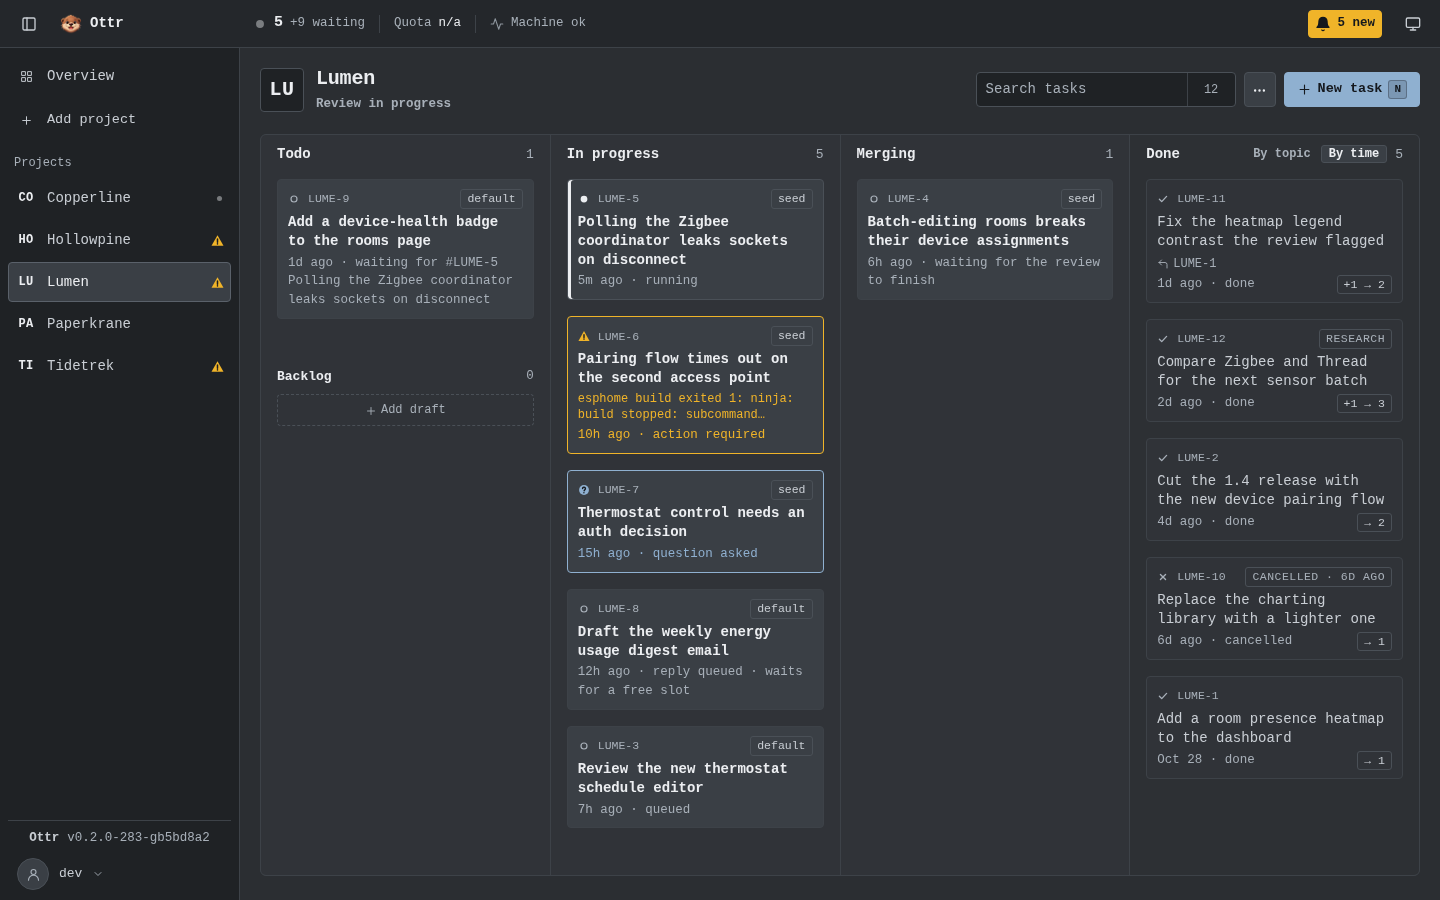
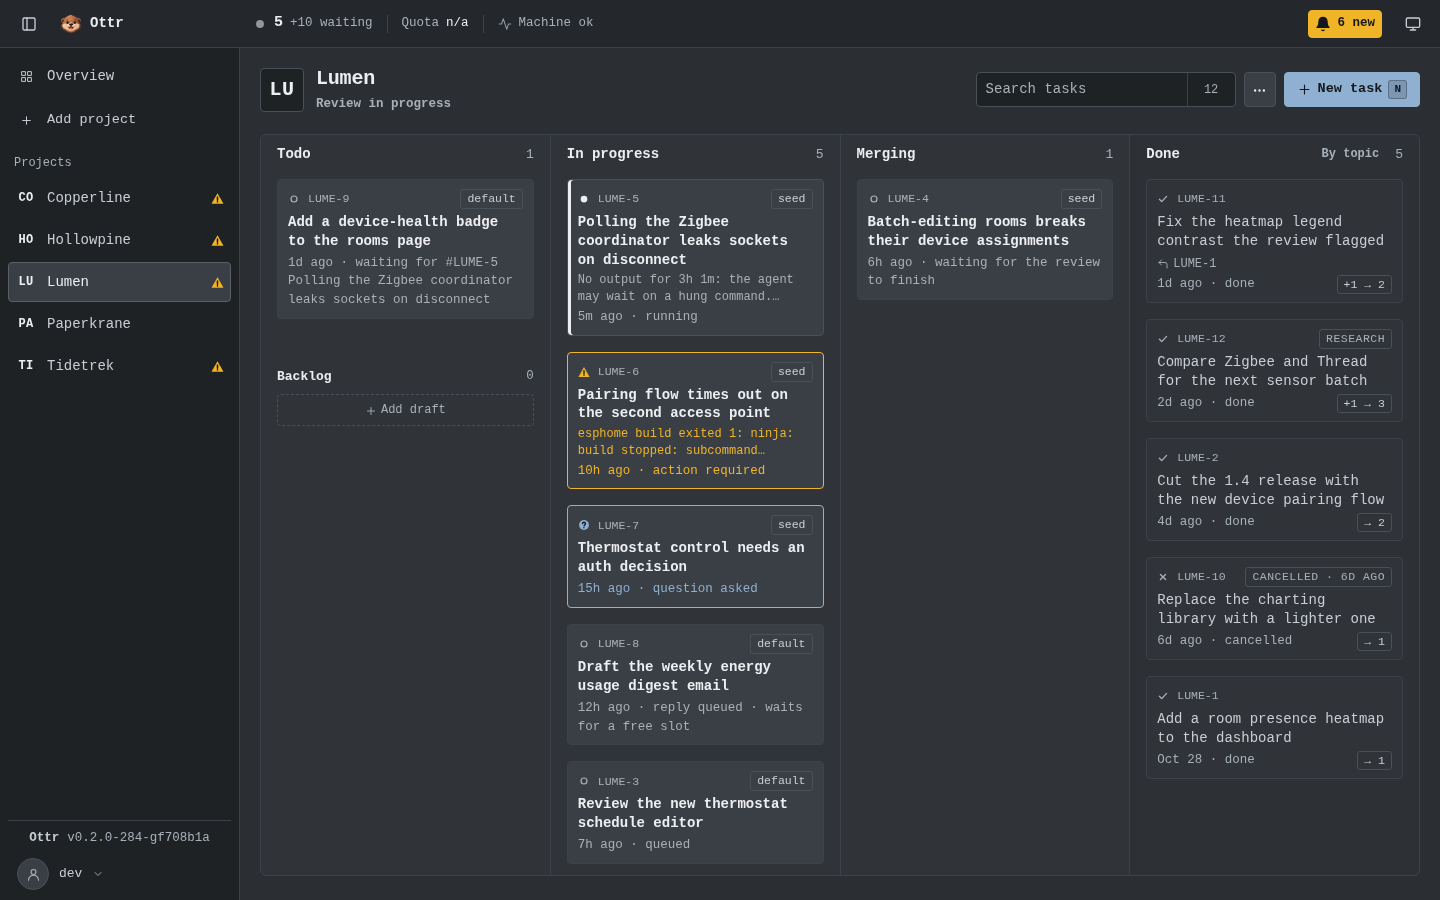
fix: grey the non-alarm ambers, shape the not-reviewed mark
Grey-Is-Normal: the overdue Start review button, the review-due badge,
the stalled-release line and the no-output line on running cards are
nudges and reports, not alarms, so they render grey. The not-reviewed
mark on late commits keeps its amber and gains the needs-you triangle
(Redundant-Coding: no alarm state rides hue alone).

diff --git a/src/ui/app.css b/src/ui/app.css
@@ -2221,9 +2221,9 @@ button.notif-link {
 .project-meta a:hover {
 	text-decoration: underline;
 }
-/* Architecture-review-due badge: alarm tint, it is a nudge not an error. */
+/* Architecture-review-due badge: a nudge, not an error — grey like the live badge. */
 .project-meta .arch-due {
-	color: var(--alarm);
+	color: var(--dim);
 	font-weight: 600;
 }
 /* A review already queued or running: normal state, so grey — not an alarm. */
@@ -2233,14 +2233,8 @@ button.notif-link {
 }
 /* Header actions: one square "more" button opens a menu of the project's actions, so
    the bar holds only the search, the menu and New task. An overdue review stays out
-   as the one alarm nudge; the status span next to the name carries the words. */
-.project-actions .arch-start {
-	color: var(--alarm);
-}
-.project-actions .arch-start:hover {
-	color: var(--alarm);
-	background: var(--alarm-bg);
-}
+   as the one nudge; the status span next to the name carries the words. The button
+   keeps grey stock: a review due is a nudge, not an alarm (Grey-Is-Normal). */
 .project-more {
 	anchor-name: --project-more;
 	aspect-ratio: 1;
@@ -2386,7 +2380,12 @@ mark as text — hue only repeats what the word says (WCAG 2.1 AA, use of color 
 	white-space: nowrap;
 	font-size: 12px;
 }
+/* Not-reviewed: amber stays, and the needs triangle rides it — an alarm needs a shape
+   as well as a hue (Redundant-Coding). */
 .late-mark.warn {
+	display: inline-flex;
+	align-items: center;
+	gap: 4px;
 	color: var(--alarm);
 }
 .advisory {
@@ -2699,12 +2698,17 @@ mark as text — hue only repeats what the word says (WCAG 2.1 AA, use of color 
 	line-height: 1.35;
 	color: var(--dim);
 }
-/* The needs-attention error sits where the prompt excerpt would; amber like the card's meta line. */
+/* The needs-attention error sits where the prompt excerpt would; amber — the card is
+   needs-you and its border carries the alarm shape. The silent-run line adds
+   .card-silent: it reports, it does not alarm, so it stays grey like the excerpt. */
 .card-error {
 	color: var(--alarm);
 }
-/* Stalled release: the "findings done, merges wait" line under the card meta; error-toned like
-   the needs-attention line, but dimmer — it reports, it does not alarm. */
+.card-error.card-silent {
+	color: var(--dim);
+}
+/* Stalled release: the "findings done, merges wait" line under the card meta; grey —
+   it reports, it does not alarm. */
 .card-hold {
 	display: -webkit-box;
 	-webkit-line-clamp: 2;
@@ -2712,8 +2716,7 @@ mark as text — hue only repeats what the word says (WCAG 2.1 AA, use of color 
 	overflow: hidden;
 	font-size: 12px;
 	line-height: 1.35;
-	color: var(--alarm);
-	opacity: 0.85;
+	color: var(--dim);
 }
 /* Follow-up marker: the send icon from the Follow up button, at the right end of the card's head. */
 .card-fu {

diff --git a/src/ui/app.tsx b/src/ui/app.tsx
@@ -726,7 +726,8 @@ function Card({
 				{/* Needs attention: the error takes the prompt line until the state clears; the
 				    card-open title also carries it. Ask rounds keep the prompt: their reason just
 				    echoes the first question the drawer's ask panel shows in full. A live turn
-				    whose log went silent past the board's limit takes the same line. */}
+				    whose log went silent past the board's limit takes the same line as
+				    .card-silent — grey, it reports, it does not alarm. */}
 				{task.state === "needs_you" &&
 				task.asked === null &&
 				task.needsReason !== null ? (
@@ -734,7 +735,7 @@ function Card({
 						{task.needsReason}
 					</span>
 				) : silent !== null ? (
-					<span className="card-error" title={silent}>
+					<span className="card-error card-silent" title={silent}>
 						{silent}
 					</span>
 				) : (
@@ -3089,7 +3090,7 @@ export function ProjectBoard({
 							{q === "" ? boardTotal : `${shown.length}/${boardTotal}`}
 						</span>
 					</span>
-					{/* Only an overdue review stays out, as the alarm nudge; every other action waits in the menu. */}
+					{/* Only an overdue review stays out, as the grey nudge; every other action waits in the menu. */}
 					{project.archReview?.due && !project.archReview.running && (
 						<button
 							type="button"
@@ -8062,6 +8063,7 @@ export function Drawer({
 											<span
 												className={c.reviewed ? "late-mark" : "late-mark warn"}
 											>
+												{!c.reviewed && <Mark kind="needs" />}
 												{c.reviewed ? "review fix" : "not reviewed"}
 											</span>
 										</li>
